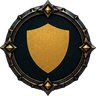
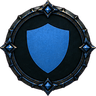
feat(assets): protection ring and shield in moon blue (DA-104)
Claude-Session: https://claude.ai/code/session_01GkCxHQhajdvgkGxCKT4kg1

Changed region(s): [[0.0, 0.0, 1.0, 1.0], [0.25, 0.2188, 0.75, 0.7812], [0.625, 0.125, 0.6875, 0.1875]]

diff --git a/tools/recolor_protected_marks.py b/tools/recolor_protected_marks.py
@@ -1,0 +1,65 @@
+"""Recolor the gold protection marks (ring and shield badge) to moon blue (DA-104).
+
+Only pixels with a gold, yellow or brown-red hue are turned; brightness, painting
+and alpha stay. Safe to run repeatedly. build_assets.py calls this after a rebuild.
+
+Target hue 212 degrees (ThemeTokens.TEAM_READ_VILLAGE #8cc4ff is about 209), with
+clearly raised saturation: the moon-silver glow of the acting person is nearly
+grey (#c5cddb, saturation about 0.1), so a saturated blue cannot be confused with it.
+"""
+import colorsys
+import os
+import sys
+from PIL import Image
+
+ROOT = os.path.dirname(os.path.dirname(os.path.abspath(__file__)))
+FILES = ["godot/assets/night/frames/ring-protected.png", "godot/assets/night/badges/badge-protected.png"]
+TARGET_HUE = 212.0
+MIN_SAT = 0.25   # below this a pixel is a grey or white highlight and stays untouched
+GOLD_MAX = 75.0  # gold, yellow, orange, brown: 0..75 degrees
+GOLD_MIN_RED = 340.0  # reddish edge pixels of the gold
+
+
+def recolor(im):
+    im = im.convert("RGBA")
+    px = im.load()
+    changed = 0
+    for y in range(im.height):
+        for x in range(im.width):
+            r, g, b, a = px[x, y]
+            if a == 0:
+                continue
+            h, s, v = colorsys.rgb_to_hsv(r / 255, g / 255, b / 255)
+            deg = h * 360
+            if s < MIN_SAT or not (deg <= GOLD_MAX or deg >= GOLD_MIN_RED):
+                continue
+            ns = min(1.0, max(s, 0.55) * 1.1)
+            # a slight drift keeps some variation from the painted gradient
+            nh = (TARGET_HUE + (min(deg, 60.0) - 40.0) * 0.25) / 360
+            nr, ng, nb = colorsys.hsv_to_rgb(nh, ns, v)
+            px[x, y] = (round(nr * 255), round(ng * 255), round(nb * 255), a)
+            changed += 1
+    return im, changed
+
+
+def leftovers(im):
+    n = 0
+    for r, g, b, a in im.getdata():
+        if a > 0:
+            h, s, v = colorsys.rgb_to_hsv(r / 255, g / 255, b / 255)
+            if s >= MIN_SAT and 30 <= h * 360 <= 70:
+                n += 1
+    return n
+
+
+def main():
+    for rel in FILES:
+        path = os.path.join(ROOT, rel)
+        im, changed = recolor(Image.open(path))
+        im.save(path, optimize=True)
+        print("%s: %d pixels turned, %d gold pixels left" % (rel, changed, leftovers(im)))
+    return 0
+
+
+if __name__ == "__main__":
+    sys.exit(main())

diff --git a/docs/assets/p3-runtime/build_assets.py b/docs/assets/p3-runtime/build_assets.py
@@ -7,6 +7,8 @@ All outputs are development material with the register status `intern-freigegebe
 """
 import os
 import shutil
+import subprocess
+import sys
 from PIL import Image
 
 SRC_WK = "C:/Users/Marku/Desktop/Grimmhain/Grimmhain-Werwolf/Grimmhain Assets/"
@@ -76,6 +78,8 @@ def main():
     fit(bar, height=60).save(out("ui/plate-frame.png"), optimize=True)
     for side in ("left", "right"):
         fit(trimmed(Image.open(SRC_WK + "arrow-%s.png" % side).convert("RGBA")), height=96).save(out("ui/arrow-%s.png" % side), optimize=True)
+    # DA-104: protection ring and shield are moon blue, not gold; recolor after every rebuild
+    subprocess.run([sys.executable, os.path.join(ROOT, "tools", "recolor_protected_marks.py")], check=True)
     total = sum(os.path.getsize(os.path.join(d, f)) for d, _, fs in os.walk(OUT) for f in fs)
     print("ok, %d KB" % (total // 1024))
 
